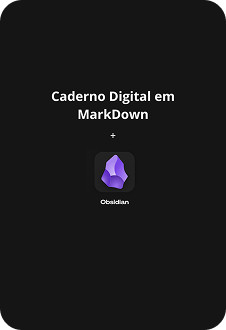
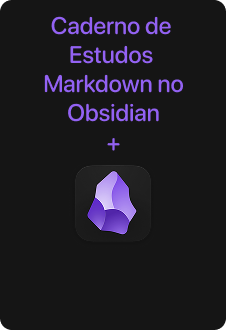
feat: create new cards png of projects and add new project for list

diff --git a/src/app/components/project-layout/project-layout.component.ts b/src/app/components/project-layout/project-layout.component.ts
@@ -61,7 +61,7 @@ export class ProjectLayoutComponent {
     },
     {
       title: 'Aprendizado de Spring',
-      text: 'Este repositório contém um projeto de aprendizado prático para explorar os conceitos e melhores práticas do Spring Boot. Ele serve como um guia para desenvolvedores que desejam se aprofundar no desenvolvimento de aplicações Java com a estrutura Spring Boot',
+      text: 'projeto de aprendizado prático para explorar os conceitos e melhores práticas do Spring Boot. Ele serve como um guia para desenvolvedores que desejam se aprofundar no desenvolvimento de aplicações Java com a estrutura Spring Boot',
       linkImg: '/assets/imgs/cards/CardSpringAprendizado.png',
       linkGithub: 'https://github.com/rdgr1/springboot-learning-rod'
     },
@@ -80,13 +80,13 @@ export class ProjectLayoutComponent {
     {
       title: 'Automação Simianer Holding',
       text: 'Este projeto é uma aplicação desenvolvida para automatizar processos específicos relacionados à gestão de recibos e outras funcionalidades administrativas.',
-      linkImg: '',
+      linkImg: '/assets/imgs/cards/Card-Simianer-Holdin.png',
       linkGithub: 'https://github.com/rdgr1/Automacao-Simianer-Holding'
     },
     {
       title: 'Automação FMV',
       text: 'Este é um aplicativo simples criado com a biblioteca customtkinter para facilitar o preenchimento e geração de uma nota fiscal com informações do cliente, serviço prestado, e dados financeiros (débito/crédito).',
-      linkImg: '',
+      linkImg: '/assets/imgs/cards/Card-FMv.png',
       linkGithub: 'https://github.com/rdgr1/gerador_fmv'
     }
   ];
